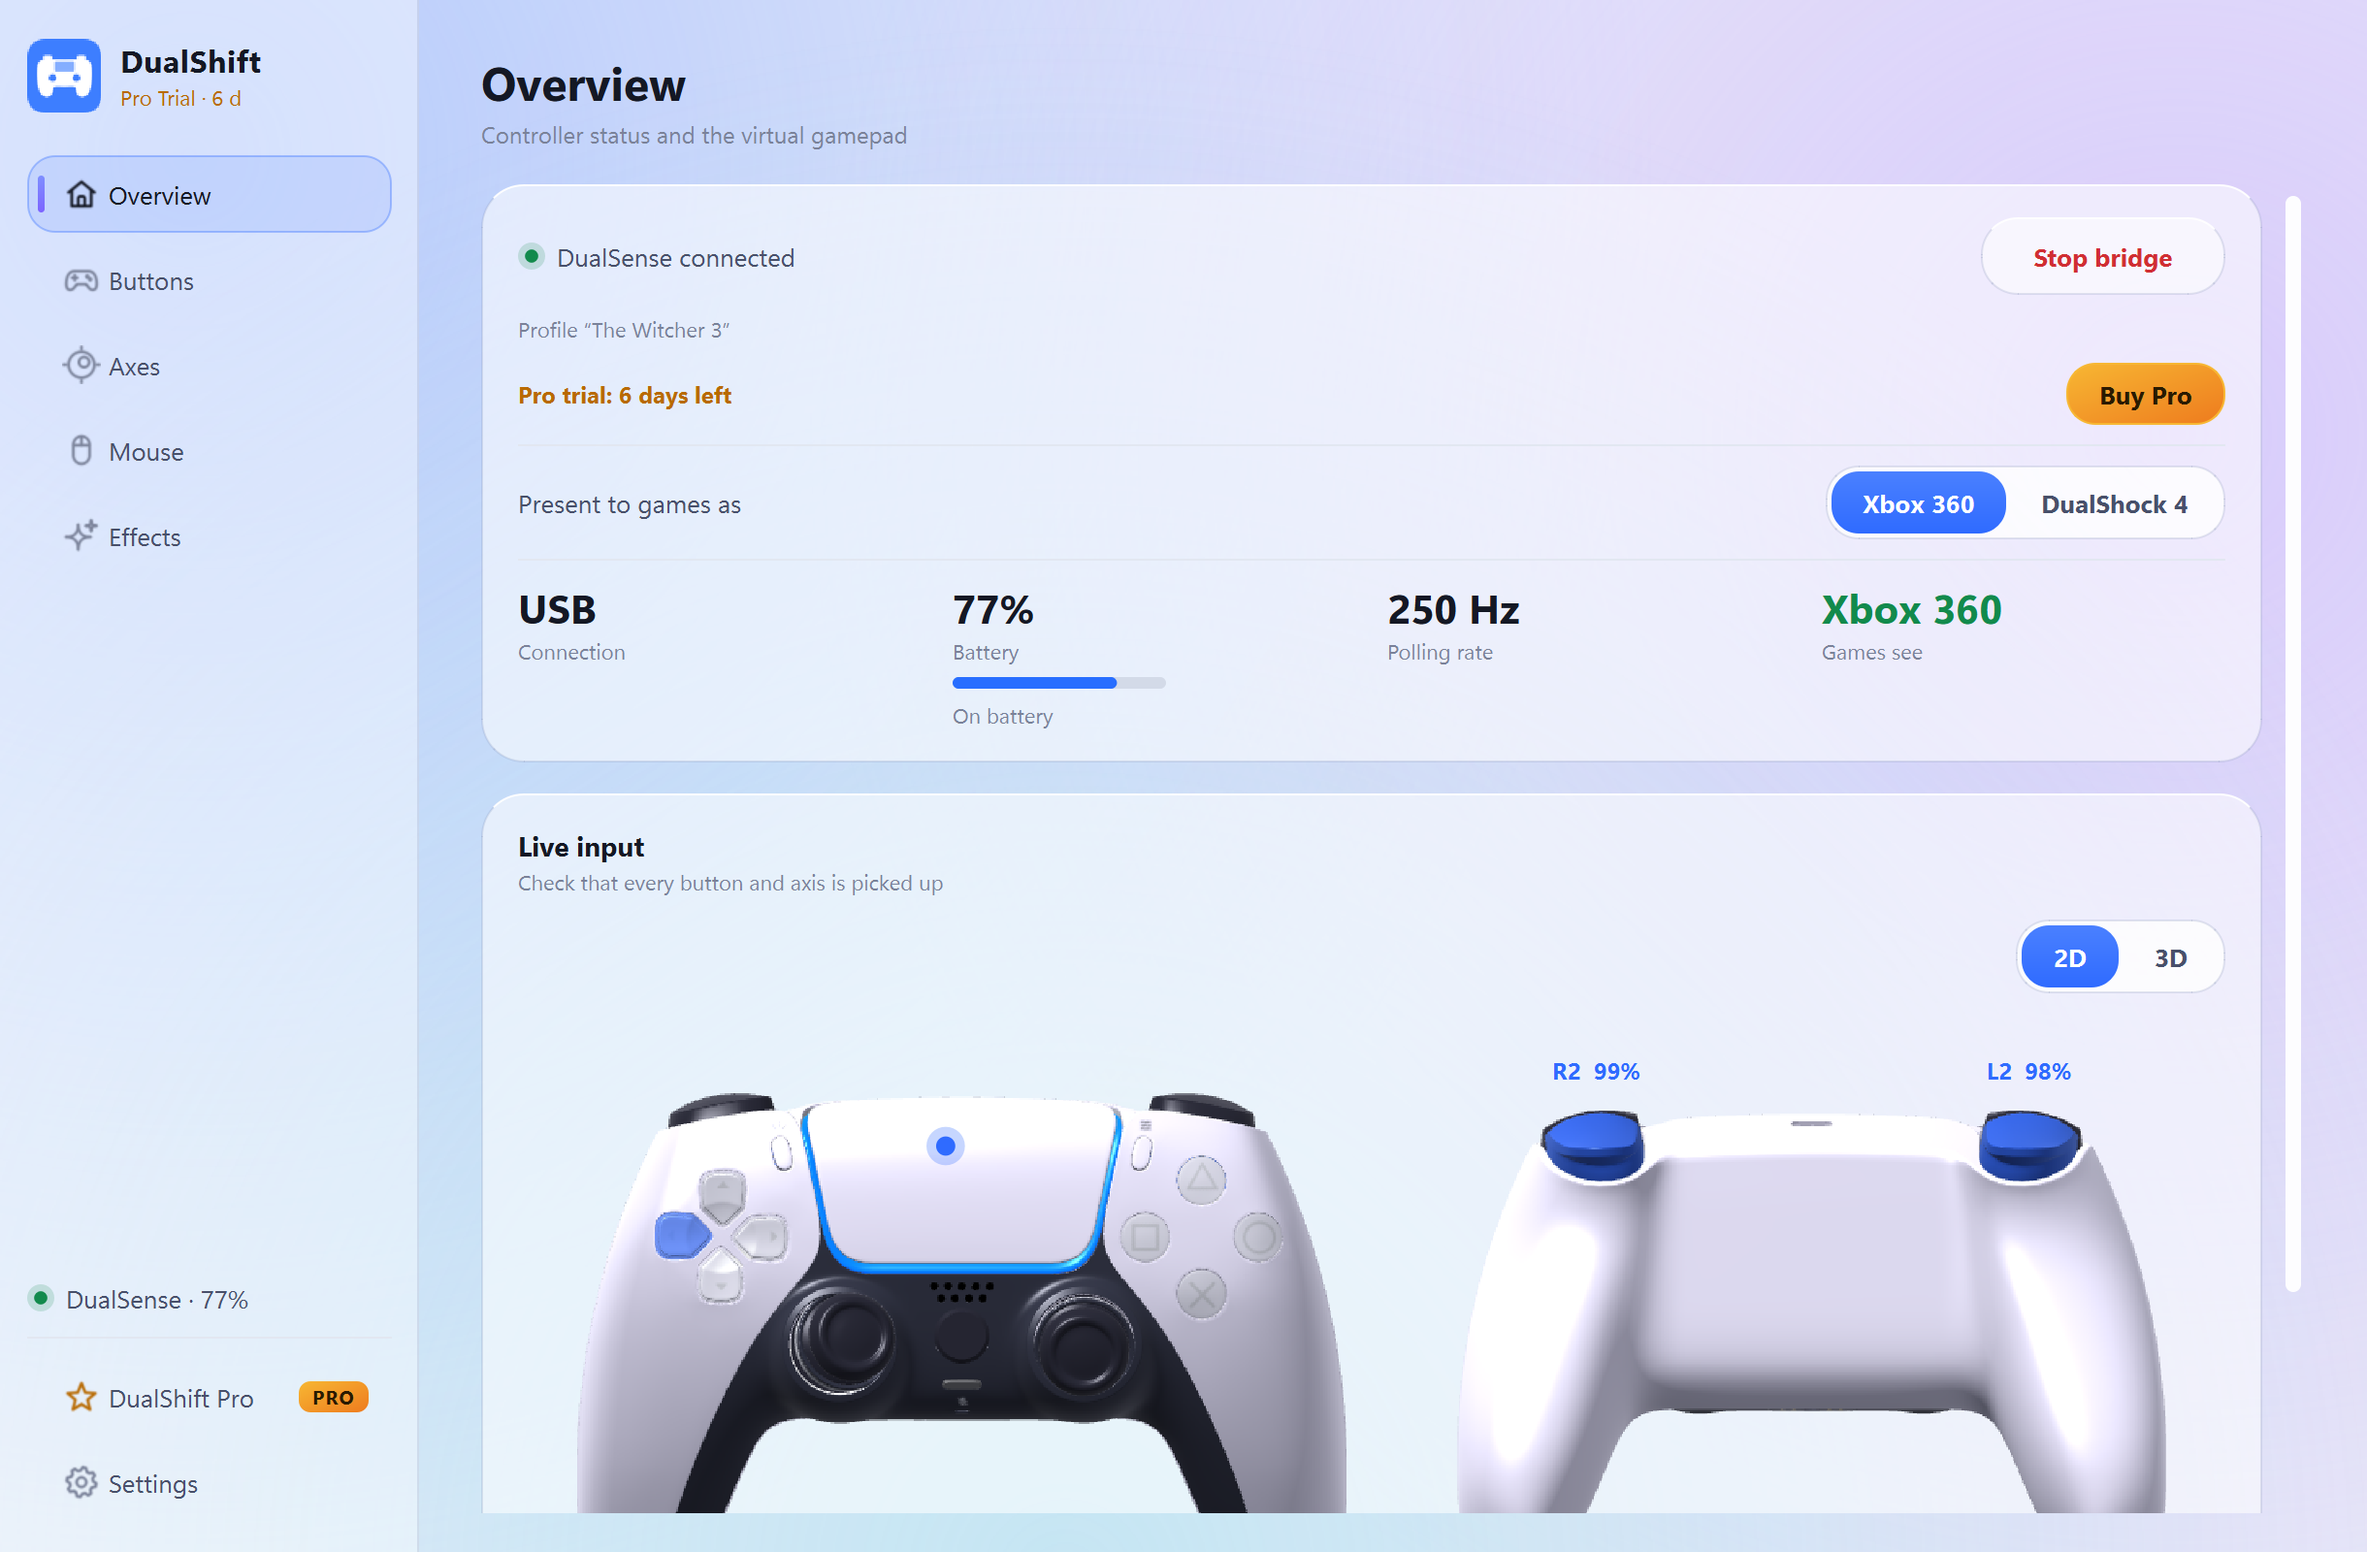
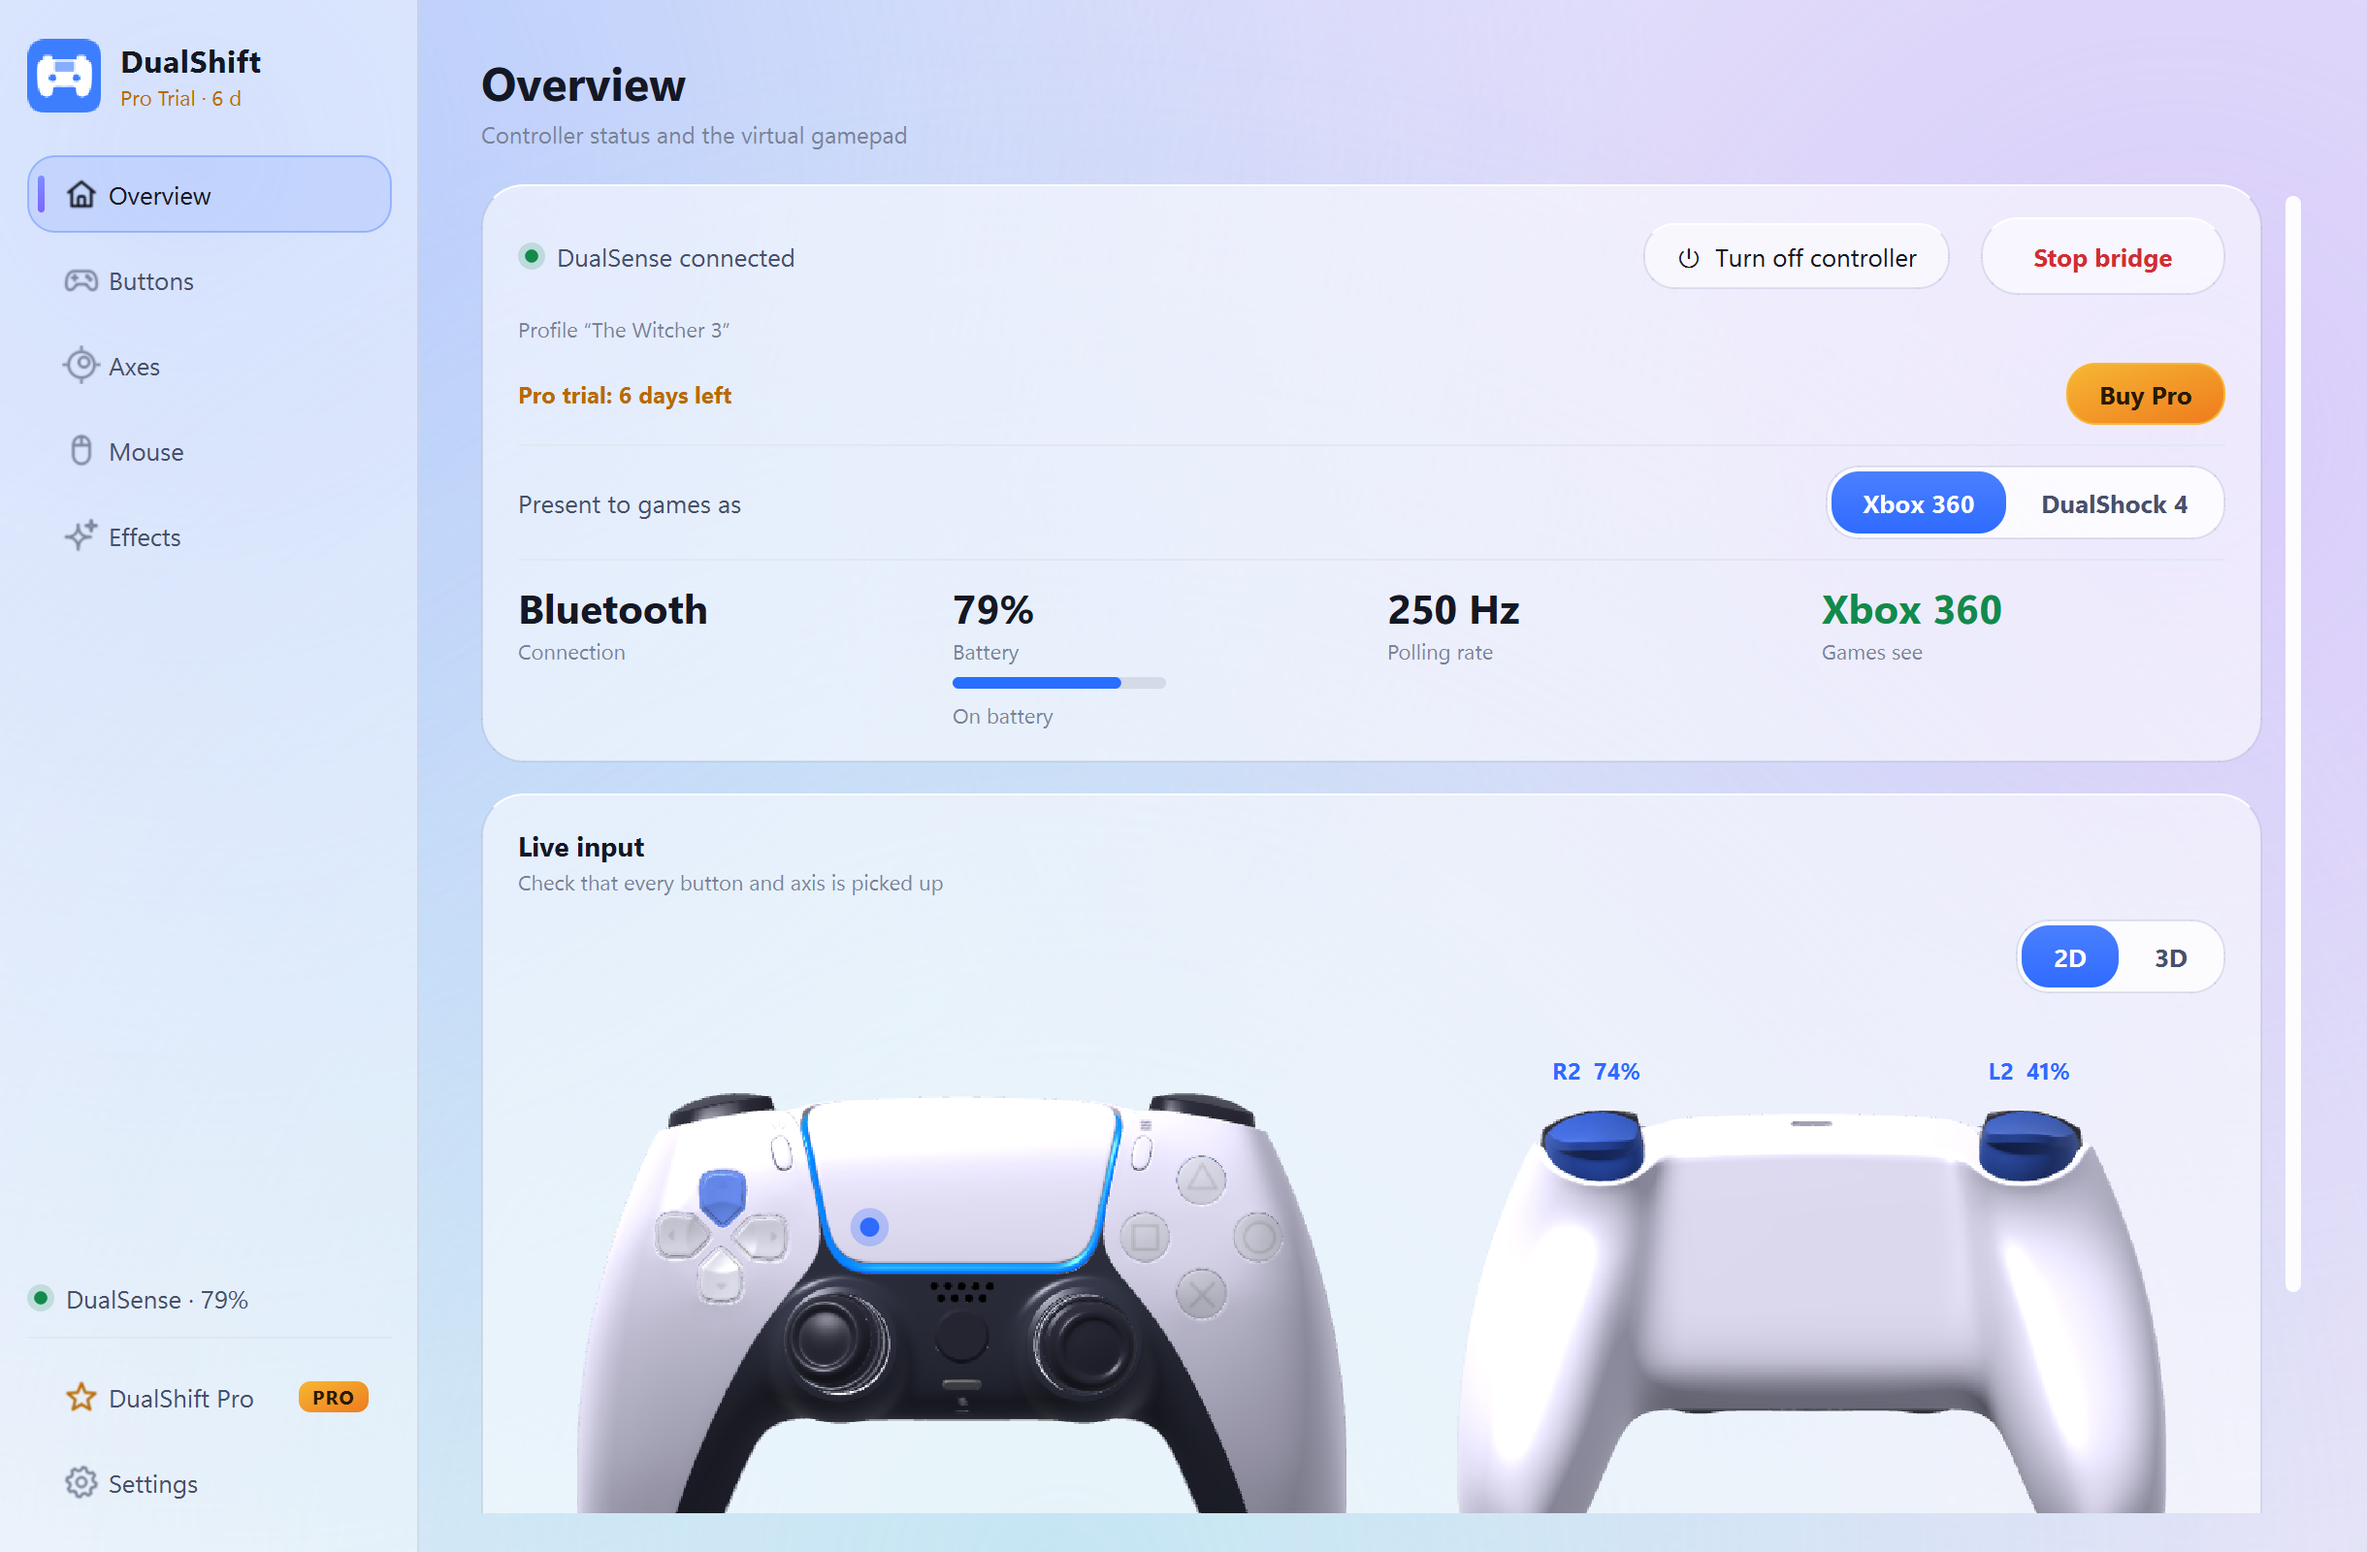
DualShift 1.0.8: on-screen keyboard in 14 languages, Bluetooth power-off, idle auto-off, connect notice, profile switch from the pad

diff --git a/README.md b/README.md
@@ -101,11 +101,20 @@ buttons and keys, or record any combination. Works in games and in mouse mode.
 
 ![Keyboard keys](docs/07-hotkeys.png)
 
-**On-screen keyboard** *(Pro)*. Opens in its own window and types into
-whatever is active — a browser, a search box, a chat. English, Russian and
-Kazakh layouts.
+**On-screen keyboard in 14 languages** *(Pro)*. Opens in its own window and
+types into whatever is active — a browser, a search box, a chat. It works like
+the keyboard on your phone: tick the languages you use, and the 🌐 key switches
+between them. Long-press a letter for its variants — é, ñ, ß, ё. Russian,
+English, Kazakh, Kyrgyz, Chechen, German, Spanish, French, Polish, Arabic and
+Hindi layouts; Korean jamo join into syllables as you type, Japanese has a
+kana grid with a ゛゜小 key, and Chinese goes through the Windows Pinyin input
+method. Double-tap Shift for caps lock.
 
 ![On-screen keyboard](docs/14-keyboard.png)
+
+![Keyboard languages](docs/18-keyboard-languages.png)
+
+![Japanese kana layout](docs/19-keyboard-japanese.png)
 
 **Profiles that switch with the game** *(Pro)*. Button mapping, stick dead
 zones and response curves, light bar, rumble, turbo and trigger settings are
@@ -113,7 +122,9 @@ saved per game. Add the game to its profile — pick it from the programs that
 are open, or choose its .exe — and DualShift turns that profile on when the
 game comes to the front, then goes back to the previous one when you leave.
 Profiles can be exported to a file and imported on another PC or by a friend.
-You can also switch profiles from the tray icon, without opening the window.
+You can also switch profiles from the tray icon, without opening the window,
+or right in the game: hold the microphone button and press left or right on
+the D-pad — the controller gives a short buzz.
 
 ![Profiles](docs/08-auto-profiles.png)
 
@@ -131,6 +142,14 @@ Input for that game, or turn on exclusive access in DualShift.
 **Low battery warning.** When the controller drops to 15%, and again at 5%,
 Windows shows a notification and the pad buzzes twice — so the match does not
 end with a dead controller.
+
+**Turn the controller off from the PC.** Over Bluetooth, one click on **Turn
+off controller** — on the Overview page or in the tray menu — puts the pad to
+sleep, no holding PS for ten seconds. Forgot it on the sofa? Set **Turn off
+the controller when idle** and it switches itself off after 5 to 60 minutes
+without a touch. When it connects again, Windows shows the battery level.
+
+![Power and notifications](docs/20-power.png)
 
 **Back to factory settings in one click.** Every page — Buttons, Axes, Mouse,
 Effects — has its own **Reset to defaults** button for just that section, and
@@ -194,7 +213,8 @@ presses altogether.
 | Stick drift check | ✓ | ✓ |
 | Mouse mode: cursor from a stick, the gyro or the touchpad | — | ✓ |
 | Keyboard keys from the controller: Alt+Tab, Esc, volume | — | ✓ |
-| On-screen keyboard | — | ✓ |
+| Turn off over Bluetooth, auto power-off when idle | ✓ | ✓ |
+| On-screen keyboard in 14 languages | — | ✓ |
 | Turbo | — | ✓ |
 | Per-game profiles that switch automatically | — | ✓ |
 
@@ -231,10 +251,10 @@ key for.
 
 ## Verifying the download
 
-`DualShift Setup.exe` 1.0.7 — 51.1 MB
+`DualShift Setup.exe` 1.0.8 — 51.2 MB
 
 ```
-SHA-256  47782d4d57a1cf1bf027e2c2381000c4a6ac6a464dc6824fb493ab1b9fb02e6e
+SHA-256  2410371f64f6d24b47bfbd82f213a56ece84c3ec5b975bab80764fb447c97334
 ```
 
 Check it in PowerShell before running:

diff --git a/docs/release-notes-1.0.8.md b/docs/release-notes-1.0.8.md
@@ -1,0 +1,29 @@
+**Free forever, Pro when you want more.** Windows 10 and 11, 64-bit.
+
+**What's new in 1.0.8**
+
+- **The on-screen keyboard speaks every language of the app.** Russian, English, Kazakh, Kyrgyz, Chechen, German, Spanish, French, Polish, Arabic, Hindi, Chinese, Japanese and Korean — 14 layouts. It works like the keyboard on a phone: pick the languages you use on the Mouse page, and the 🌐 key switches between them; the language menu at the top has all of them. Long-press a letter to get its variants — é, ñ, ß, ё, أ. Korean jamo join into syllables as you type (ㅎ ㅏ ㄴ → 한), Japanese has a kana grid with a ゛゜小 key for dakuten and small kana, Shift gives katakana, and Chinese types through the Windows Pinyin input method. A double tap on Shift turns on caps lock. The window never takes focus, so the text still lands in the browser or the search box.
+- **Turn off the controller from the PC.** Over Bluetooth, the new *Turn off controller* button on the Overview page — or in the tray menu — puts the DualSense to sleep at once. No more holding PS for ten seconds.
+- **Auto power-off when idle.** Settings → Controller → *Turn off the controller when idle*: after 5 to 60 minutes without a touch the controller turns itself off and saves the battery. Off by default; Bluetooth only.
+- **Connection notice with the battery level.** When the controller connects while DualShift is in the tray, Windows shows *DualSense connected · Bluetooth · battery 80%*. Can be turned off in Settings.
+- **Switch profiles right in the game** *(Pro)*. Hold the microphone button and press left or right on the D-pad — the next profile turns on and the controller gives a short buzz. The D-pad press does not reach the game.
+
+Everything from 1.0.7 is here too: gyro that aims with small moves, gyro self-calibration and *Reset to defaults* on every page.
+
+**Installing**
+
+Run `DualShift Setup.exe`. Windows shows a SmartScreen warning — the installer is not code-signed yet: **More info → Run anyway**. Agree to install the bundled ViGEmBus driver when the installer offers it; without it Windows cannot create the virtual controller.
+
+Already have an earlier version? Install on top — your settings, profiles and key stay. If you had **DualShift Demo**, the installer removes it and puts the regular version in its place.
+
+**Verify the download**
+
[1 lines of base64/hex data omitted]
+
+```powershell
+Get-FileHash "$HOME\Downloads\DualShift Setup.exe" -Algorithm SHA256
+```
+
+3D model: "Playstation 5 Dualsense" by AHarmlessPotato (Sketchfab), CC BY 4.0, modified. Adaptive trigger effects are encoded after TriggerEffectGenerator by John "Nielk1" Klein, MIT License.
+
+Bugs and questions — open an Issue. Please say which Windows version and controller you have, and whether it is connected by USB or Bluetooth.
